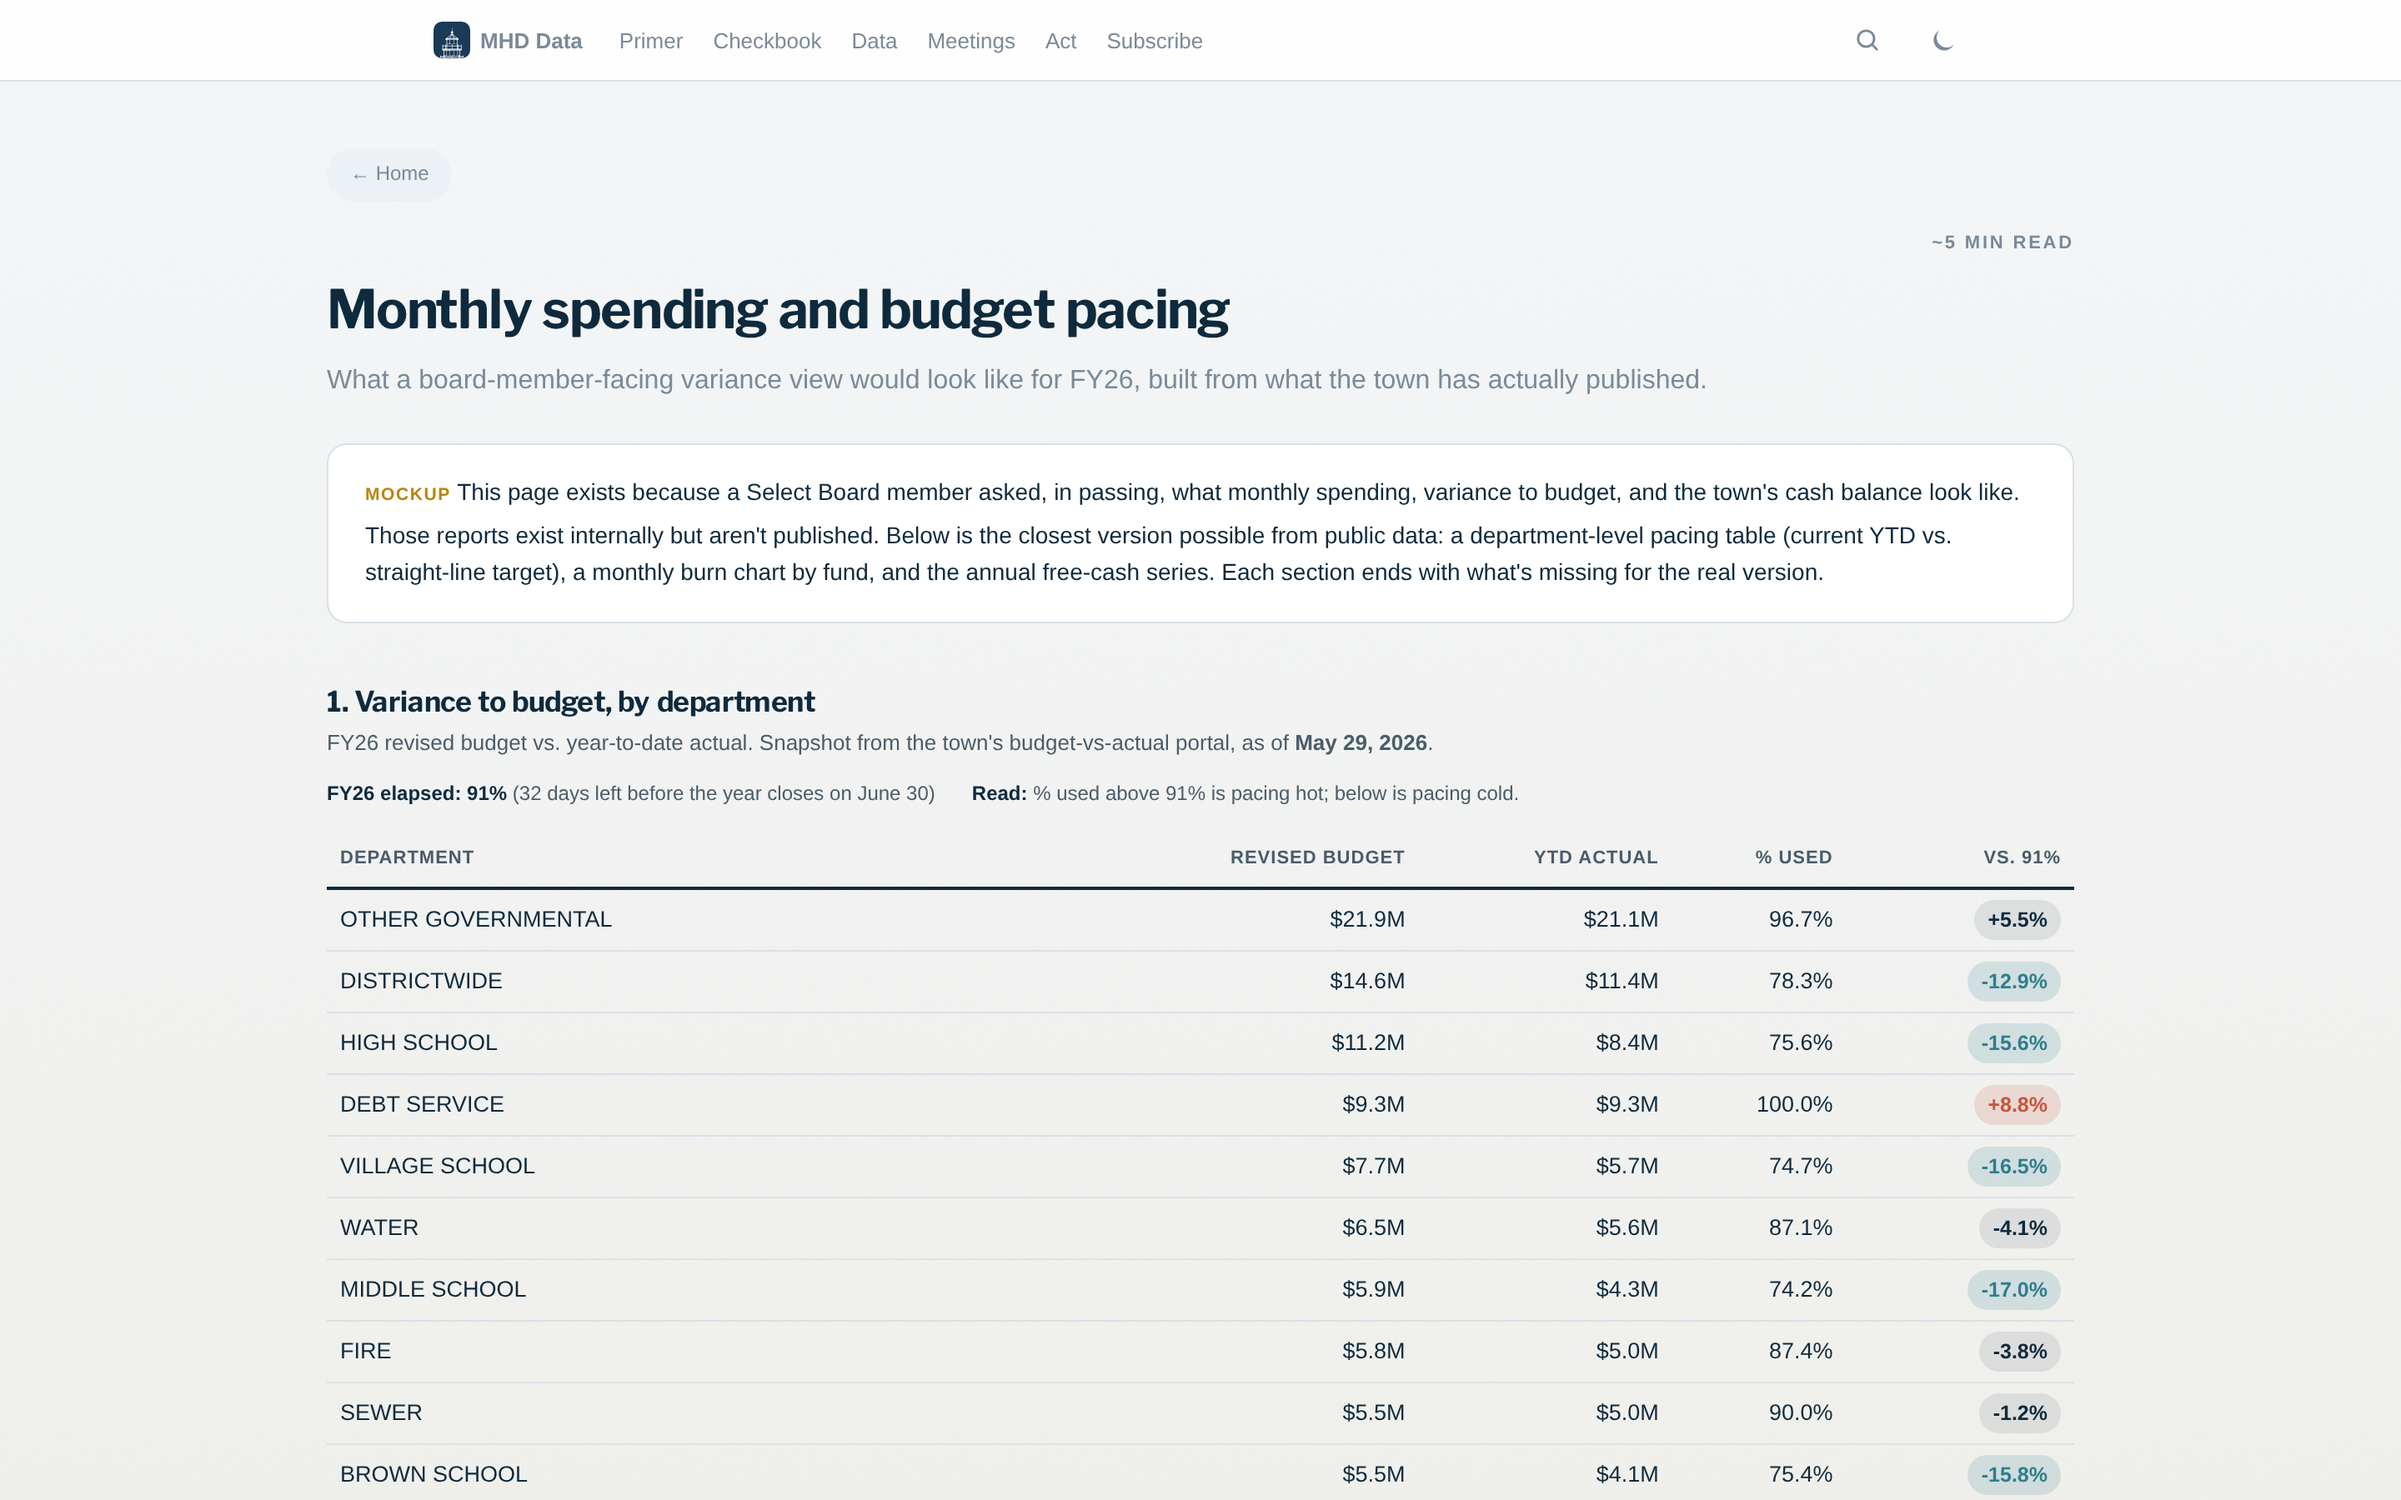
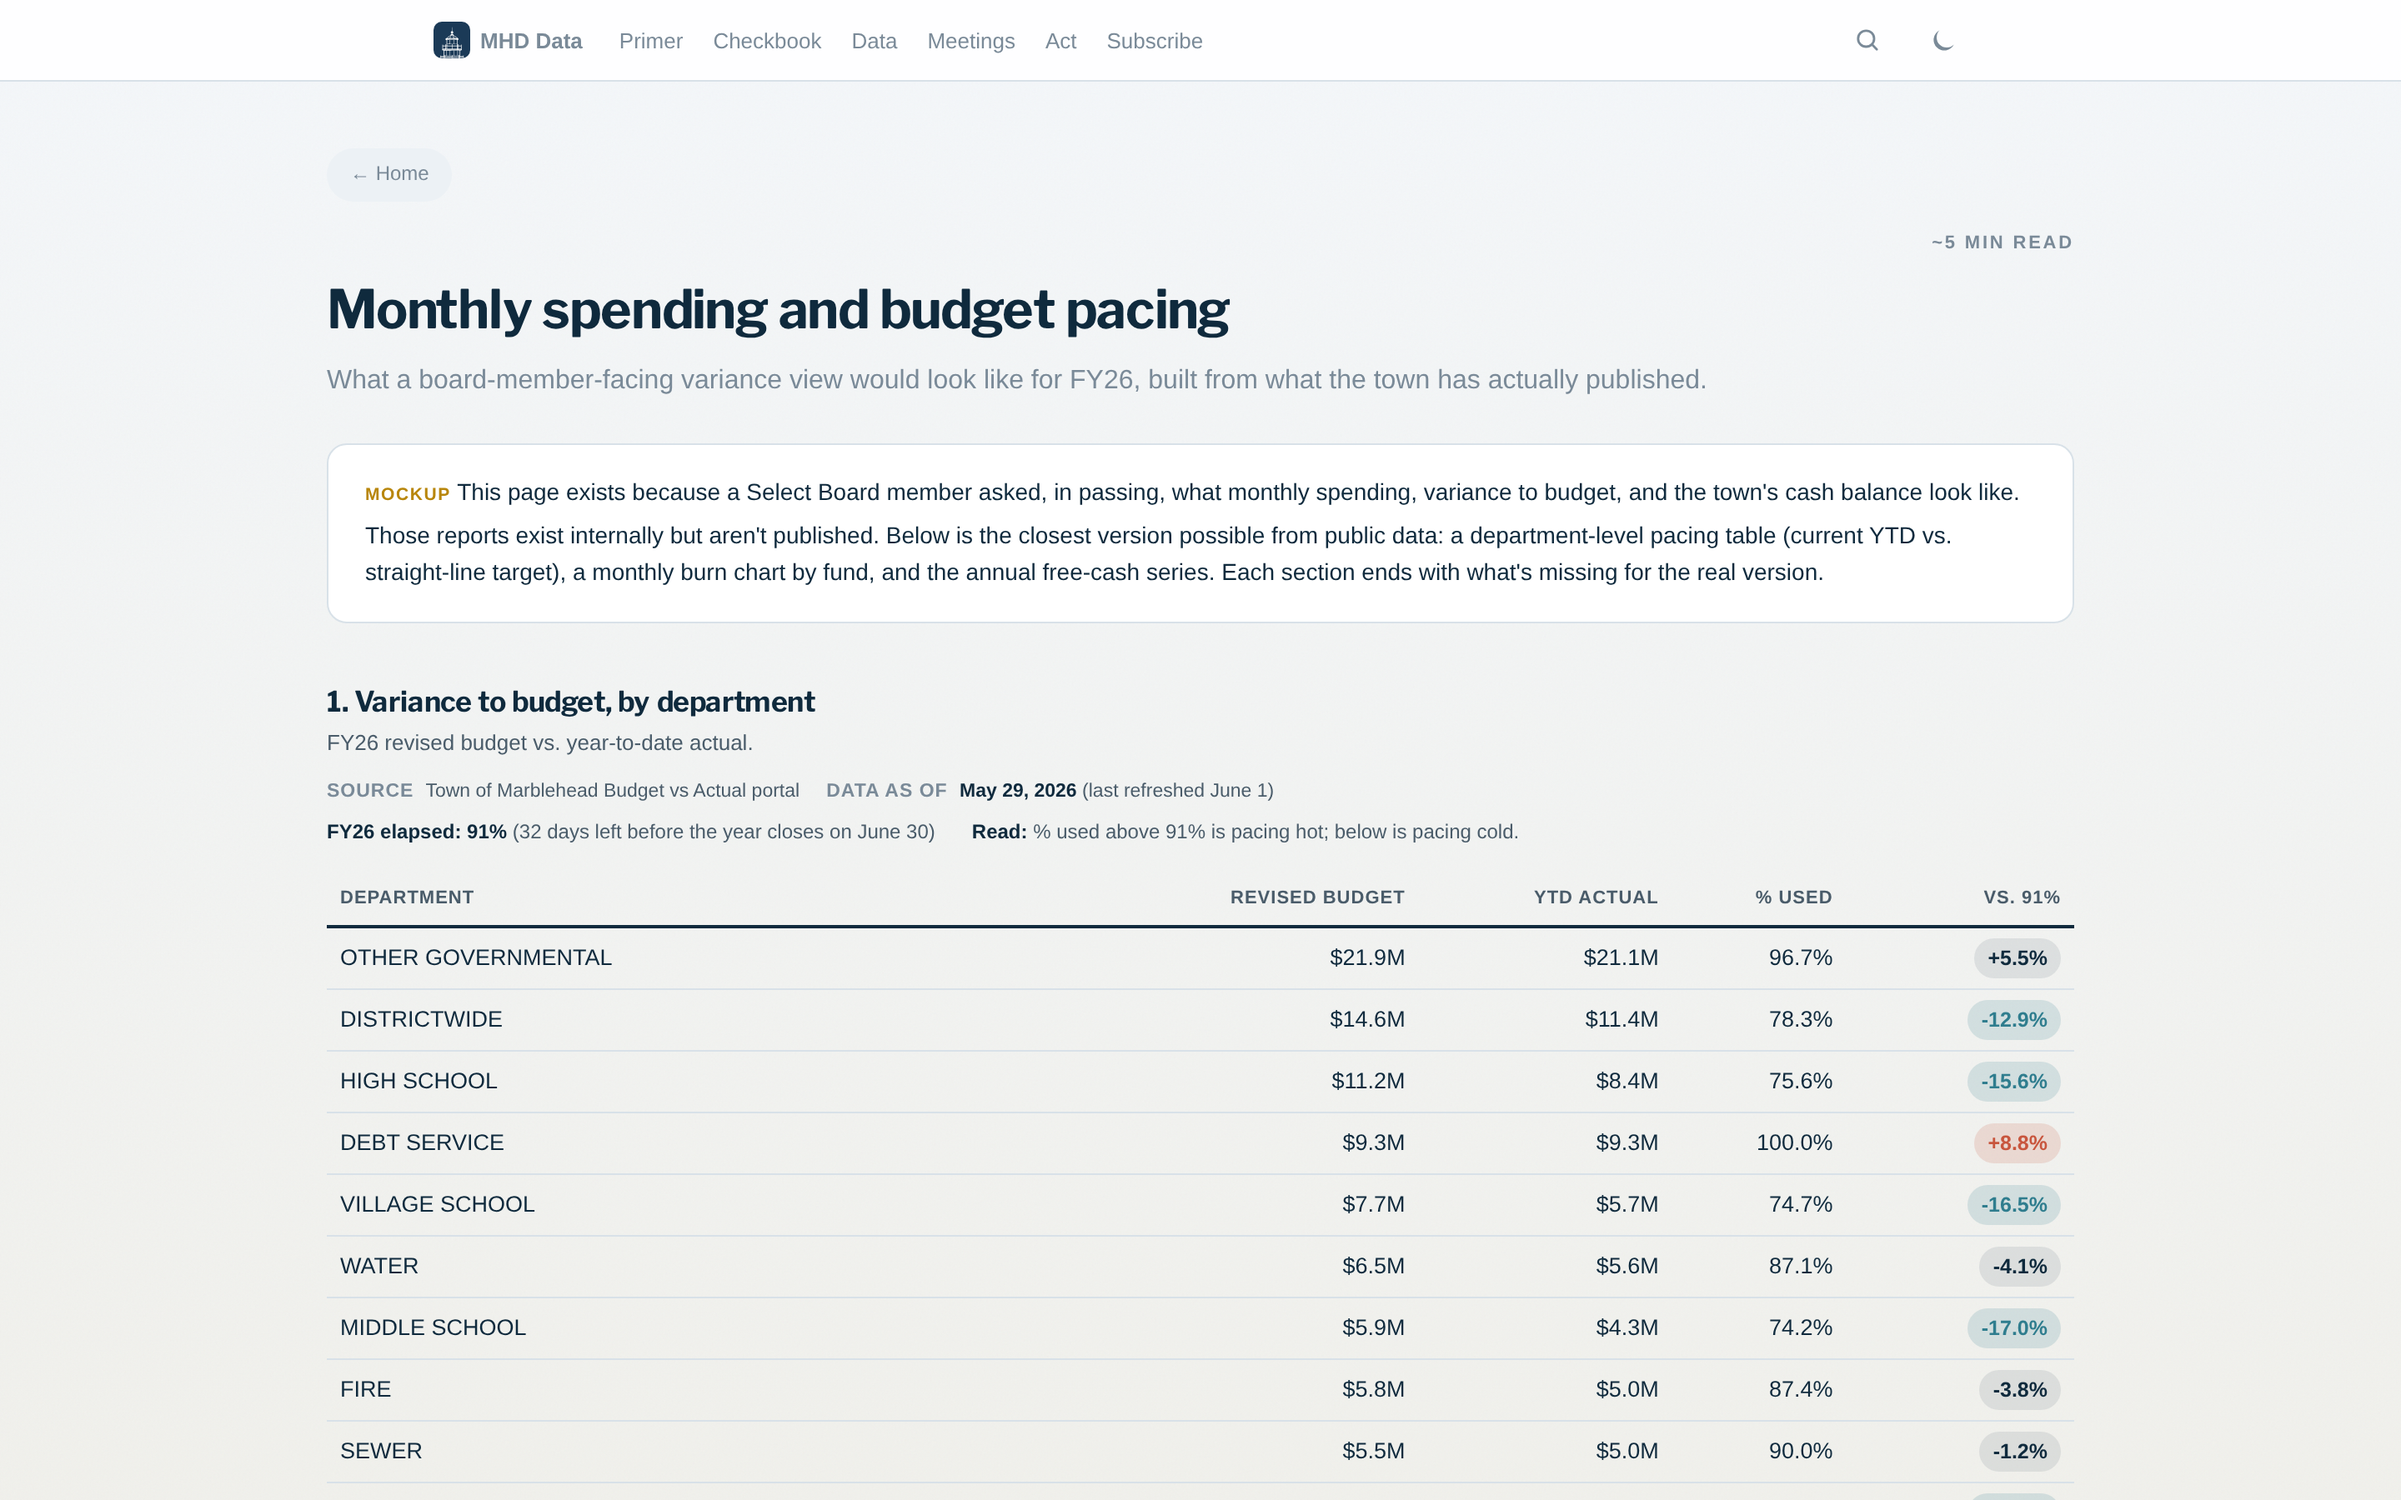
Add per-section data stamps and a 'how to read' note on monthly-pacing
Two reviewer fixes:

- Each of the three sections now carries its own visible Source / Data
  as of stamp (formerly the pacing-table date was in prose; the
  burn-chart had no date; free cash had no source). The two FY26 sources
  refresh on different cadences, which is itself part of the answer to
  the underlying question, so making the gap explicit is the point.

- New 'How to read the pacing column' note under the table. The
  pacing pill reads as 'X% ahead/behind straight-line' not 'over budget';
  that's especially confusing on debt service (100% used, +8.8% pace =
  paid 8 points before the calendar caught up, not 8% over). The note
  names the categories that never pace linearly (debt, capital, harbor,
  snow) so the column is read correctly for the categories where it
  does mean something (schools, fire, police, DPW, water/sewer).

Generated with [Claude Code](https://claude.ai/code)
via [Happy](https://happy.engineering)

diff --git a/monthly-pacing.html b/monthly-pacing.html
@@ -110,6 +110,30 @@ og_url: https://marbleheaddata.org/monthly-pacing/
     line-height: 1.5;
   }
 
+  /* Visible per-section data stamps */
+  .data-stamp {
+    display: flex; flex-wrap: wrap; gap: 4px 16px;
+    margin: 6px 0 4px;
+    font-size: 11.5px; color: var(--text-muted);
+    line-height: 1.5; font-variant-numeric: tabular-nums;
+  }
+  .data-stamp .stamp-label {
+    font-weight: 700; text-transform: uppercase; letter-spacing: 0.5px;
+    color: var(--text-subtle); margin-right: 4px;
+  }
+  .data-stamp strong { color: var(--text); font-weight: 600; }
+
+  /* "How to read" note under the pacing table */
+  .read-note {
+    font-size: 12.5px; color: var(--text-muted);
+    line-height: 1.55; margin: 8px 0 16px;
+    padding: 10px 14px;
+    border-left: 3px solid var(--c-brass);
+    background: color-mix(in srgb, var(--c-brass) 6%, transparent);
+    border-radius: 0 var(--radius-md) var(--radius-md) 0;
+  }
+  .read-note strong { color: var(--text); }
+
   @media (max-width: 720px) {
     .pace-table { font-size: 12.5px; }
     .pace-table th, .pace-table td { padding: 5px 6px; }
@@ -132,7 +156,12 @@ og_url: https://marbleheaddata.org/monthly-pacing/
 </div>
 
 <h2 class="section-h">1. Variance to budget, by department</h2>
-<p class="section-sub">FY26 revised budget vs. year-to-date actual. Snapshot from the town's budget-vs-actual portal, as of <strong>May&nbsp;29,&nbsp;2026</strong>.</p>
+<p class="section-sub">FY26 revised budget vs. year-to-date actual.</p>
+
+<div class="data-stamp">
+  <span><span class="stamp-label">Source</span> Town of Marblehead Budget vs Actual portal</span>
+  <span><span class="stamp-label">Data as of</span> <strong>May&nbsp;29,&nbsp;2026</strong> (last refreshed June 1)</span>
+</div>
 
 <div class="pacing-meta">
   <span><strong>FY26 elapsed:</strong> <strong>91%</strong> (32 days left before the year closes on June 30)</span>
@@ -152,17 +181,27 @@ og_url: https://marbleheaddata.org/monthly-pacing/
   <tbody id="pace-body"></tbody>
 </table>
 
+<div class="read-note">
+  <strong>How to read the pacing column.</strong>
+  &ldquo;+8% ahead&rdquo; means the department's spend is 8 points past where straight-line pacing would put it, not 8% over budget. Some categories never pace linearly and the column isn't meaningful for them: <strong>debt service</strong> (a few fixed payment dates per year, mostly early), <strong>capital articles</strong> (lumpy draws, often year-end), <strong>harbor</strong> (seasonal), <strong>snow removal</strong> (winter only). The schools, fire, police, DPW, and water/sewer lines are where the pacing read tells you something useful.
+</div>
+
 <div class="caveats">
   <h3>What's missing for the real version</h3>
   <ul>
     <li><strong>Encumbrances.</strong> A department can look "under-spent" because purchase orders are still open. The Town Accountant's internal report shows expended + encumbered + remaining; this view only shows expended.</li>
-    <li><strong>Per-month budget.</strong> Departments don't spend in twelfths. School payroll concentrates in the academic year; snow removal concentrates Dec-Mar; debt service hits a few dates per year. The 91.2% straight-line is a flag, not a verdict.</li>
+    <li><strong>Per-month budget.</strong> Even for departments that do roughly spend monthly, a flat 1/12 target is a coarse benchmark; the real internal report compares to a department's own historical month-by-month profile.</li>
     <li><strong>Frequency.</strong> This snapshot is from June 1. There is no published monthly feed.</li>
   </ul>
 </div>
 
 <h2 class="section-h">2. Monthly cash-out, by fund</h2>
-<p class="section-sub">Cumulative vendor payments by month, from the <a href="/checkbook/">town's vendor checkbook</a> export. Dashed line is straight-line target.</p>
+<p class="section-sub">Cumulative vendor payments by month. Dashed line is straight-line target.</p>
+
+<div class="data-stamp">
+  <span><span class="stamp-label">Source</span> <a href="/checkbook/">Town of Marblehead Vendor Checkbook</a></span>
+  <span><span class="stamp-label">Data as of</span> <strong>June&nbsp;17,&nbsp;2026</strong> (on-demand export)</span>
+</div>
 
 <div class="burn-wrap">
   <svg class="burn-chart" id="burn-chart" viewBox="0 0 800 320" preserveAspectRatio="none" aria-label="Monthly cumulative spend by fund vs. straight-line target"></svg>
@@ -179,7 +218,12 @@ og_url: https://marbleheaddata.org/monthly-pacing/
 </div>
 
 <h2 class="section-h">3. Town cash balance</h2>
-<p class="section-sub">Year-end certified free cash, FY15&ndash;FY26.</p>
+<p class="section-sub">Year-end certified free cash, FY15&ndash;FY26. One value per year, certified after the prior fiscal year closes.</p>
+
+<div class="data-stamp">
+  <span><span class="stamp-label">Source</span> Massachusetts DOR DLS Gateway (FreeCash2 report)</span>
+  <span><span class="stamp-label">Cadence</span> <strong>Annual</strong> &middot; certified in the fall after the FY closes</span>
+</div>
 
 <svg class="fc-chart" id="fc-chart" viewBox="0 0 800 220" preserveAspectRatio="none" aria-label="Annual certified free cash by fiscal year"></svg>
 
